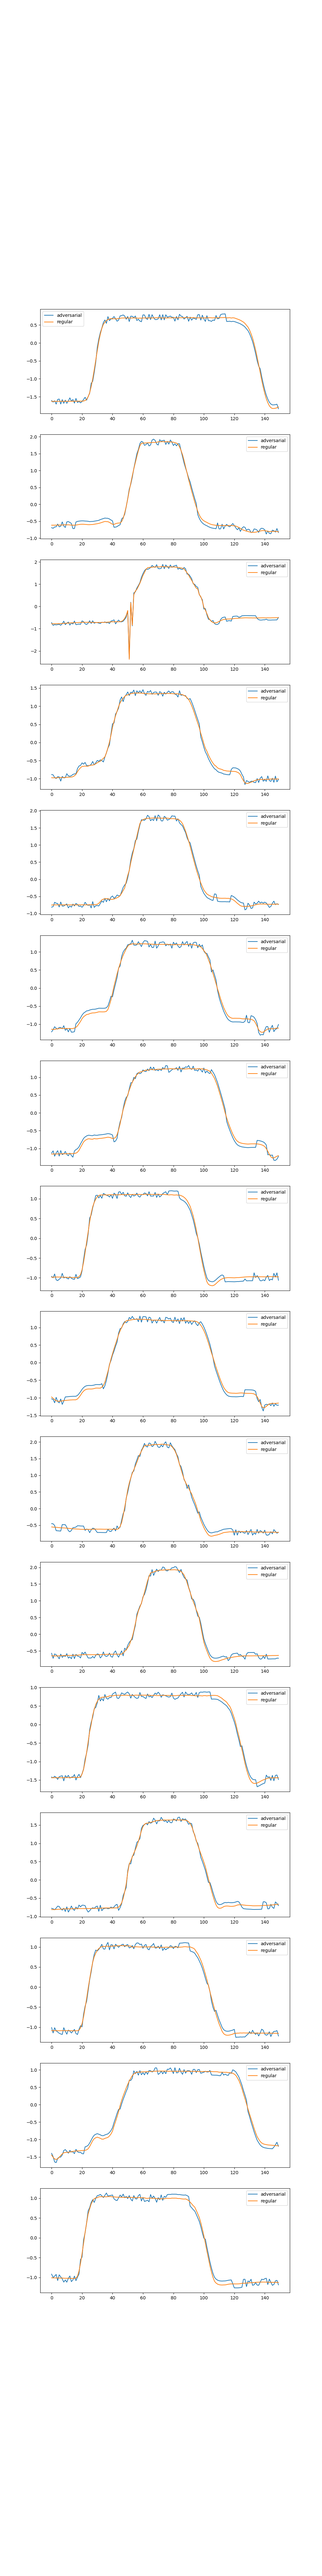
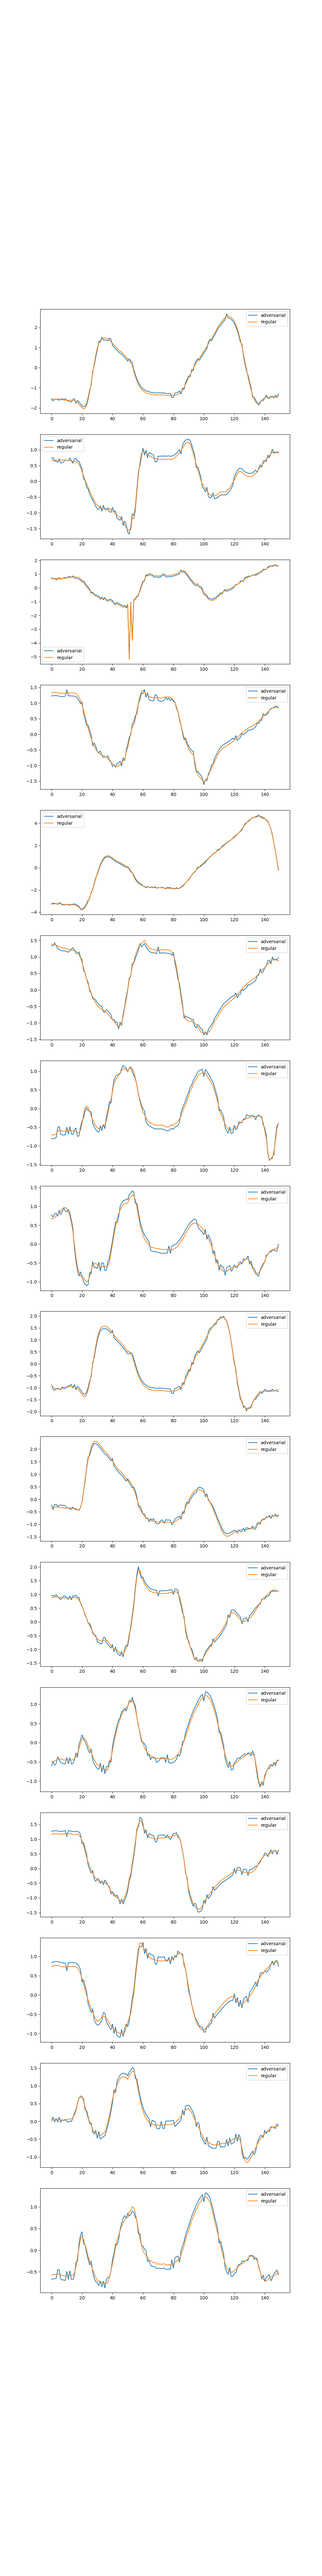
shapeletnet working

diff --git a/models/conv_shapelet.py b/models/conv_shapelet.py
@@ -1,0 +1,45 @@
+import torch.nn as nn
+import torch
+import numpy as np
+
+
+class ConvShapeletNet(nn.Module):
+    def __init__(self, args, loader, bag_ratio=.15):
+        super(ConvShapeletNet, self).__init__()
+        self.n_shapelets = 0
+        self.bag_ratio = bag_ratio
+        self.bag_size = int(bag_ratio * loader.dataset.input_size)
+        self.n_variates = loader.dataset.n_variates
+        print("N_variates: ", self.n_variates)
+        n_out = 10
+        self.conv_shapelet = nn.Conv1d(in_channels=self.n_variates, out_channels=n_out, kernel_size=self.bag_size,
+                                       stride=self.bag_size//4, bias=True, groups=self.n_variates)
+        self.relu = nn.ReLU()
+        self.fc = nn.Linear(8*n_out, loader.dataset.output_size)
+        #self.fc2 = nn.Linear(3 * n_out, loader.dataset.output_size)
+        self.conv_shapelet.weight = nn.Parameter(torch.ones_like(self.conv_shapelet.weight), requires_grad=False)
+        self.pool = nn.MaxPool1d(kernel_size=3)
+
+    def convert_to_bags(self, data):
+        bag_size = self.bag_size
+        shift_size = self.bag_size // 2
+        bags = []
+        window_marker = 0
+        # Data: BatchSize x N_Variates X TS_length
+        while window_marker + bag_size < data.shape[2]:
+            fragment = data[:, :, window_marker: window_marker+bag_size].unsqueeze(-1)
+            bags.append(fragment)
+            window_marker += shift_size
+        bags = torch.cat(bags, dim=3)
+        return bags
+
+    def forward(self, x):
+        # X is (batch_size, input_size, n_variates)
+        x = x.view(x.shape[0], x.shape[2], x.shape[1])
+        #x = self.convert_to_bags(x) # batch_size x n_variates x bag_size x n_bags
+        x = (self.conv_shapelet(x))**2
+        x = self.pool(-x).view(x.shape[0], -1)
+        #print(x.shape)
+        #x = x.view(x.shape[0], -1)
+        x = self.fc(x)
+        return x

diff --git a/models/shapelet.py b/models/shapelet.py
@@ -22,8 +22,10 @@ class ShapeletNet(nn.Module):
         print("N_variates: ", self.n_variates)
         self.shapelets = nn.Parameter(self.init_shapelets(args, loader))
         self.relu = nn.ReLU()
-        self.fc1 = nn.Linear(self.n_shapelets*self.n_variates, loader.dataset.output_size)
-        self.dropout = lambda x : x
+        self.fc1 = nn.Linear(2*self.n_shapelets*self.n_variates, loader.dataset.output_size)
+        self.bn = nn.BatchNorm1d(num_features=2*self.n_shapelets*self.n_variates)
+
+        self.softmax = nn.Softmax(dim=-1)
 
     def init_shapelets(self, args, loader, n_shapelets=5):
         n_variates = loader.dataset.n_variates
@@ -60,7 +62,6 @@ class ShapeletNet(nn.Module):
         #norms = torch.norm(shapelets, dim=1)
         #norms_mult = torch.einsum("i, j-> ij", norms, norms)
         #cos_sim = prod/norms_mult
-
         mean_shapelet = shapelets.mean(dim=0, keepdim=True)
         dist = torch.norm(mean_shapelet-shapelets, p=2)
         return -dist
@@ -70,9 +71,11 @@ class ShapeletNet(nn.Module):
         x = x.view(x.shape[0], x.shape[2], x.shape[1])
         x = self.convert_to_bags(x) # batch_size x n_variates x bag_size x n_bags
         diffs = self.get_distance_features(x) # batch_size x n_variates x n_shapelets x n_bags
-        dist_features = diffs.min(dim=-1)[0].view(diffs.shape[0], -1)
-        out = self.fc1(self.dropout(dist_features))
+        dist_min = diffs.min(dim=-1)[0].view(diffs.shape[0], -1)
+        dist_avg = diffs.mean(dim=-1).view(diffs.shape[0], -1)
+        dist_features = torch.cat([dist_min, dist_avg], dim=1)
+        dist_features = self.bn(dist_features)
+        out = self.fc1(dist_features)
         if return_dist:
-            return out, self.get_similarity_shapelets()
+            return out, self.get_similarity_shapelets()+dist_min.mean()
         return out
-

diff --git a/models/__init__.py b/models/__init__.py
@@ -2,12 +2,15 @@ from .MLP import DummyNet, MLP
 from .FCN import FCN
 from .resnet import TSResNet
 from .shapelet import ShapeletNet
+from .conv_shapelet import ConvShapeletNet
 
 __model__ = {"Dummy": DummyNet,
              "MLP": MLP,
              "FCN": FCN,
              "resnet": TSResNet,
-             "ShapeletNet": ShapeletNet}
+             "ShapeletNet": ShapeletNet,
+             "ConvShapelet": ConvShapeletNet}
+
 
 def get_model(args):
     return __model__[args.model]

diff --git a/main.py b/main.py
@@ -16,7 +16,7 @@ if __name__ == "__main__":
     train_loader, test_loader = load_dataset(args)
     model = get_model(args)(args, train_loader)
 
-    optimizer = optim.Adam(model.parameters(), lr=0.01)
+    optimizer = optim.Adam(model.parameters(), lr=0.01, weight_decay=0.001)
     scheduler = optim.lr_scheduler.ReduceLROnPlateau(optimizer, 'min', factor=0.9)
     best = np.inf
     if args.resume:

diff --git a/train_utils/checkpoints.py b/train_utils/checkpoints.py
@@ -2,6 +2,7 @@ import torch
 import os
 import torch.nn as nn
 
+
 def save_ckpt(args, model, optimizer, epoch, train_res, val_res, c_type="latest"):
     ckpt_folder = os.path.join(args.base_dir, args.dataset, args.model)
     if not os.path.isdir(ckpt_folder):
